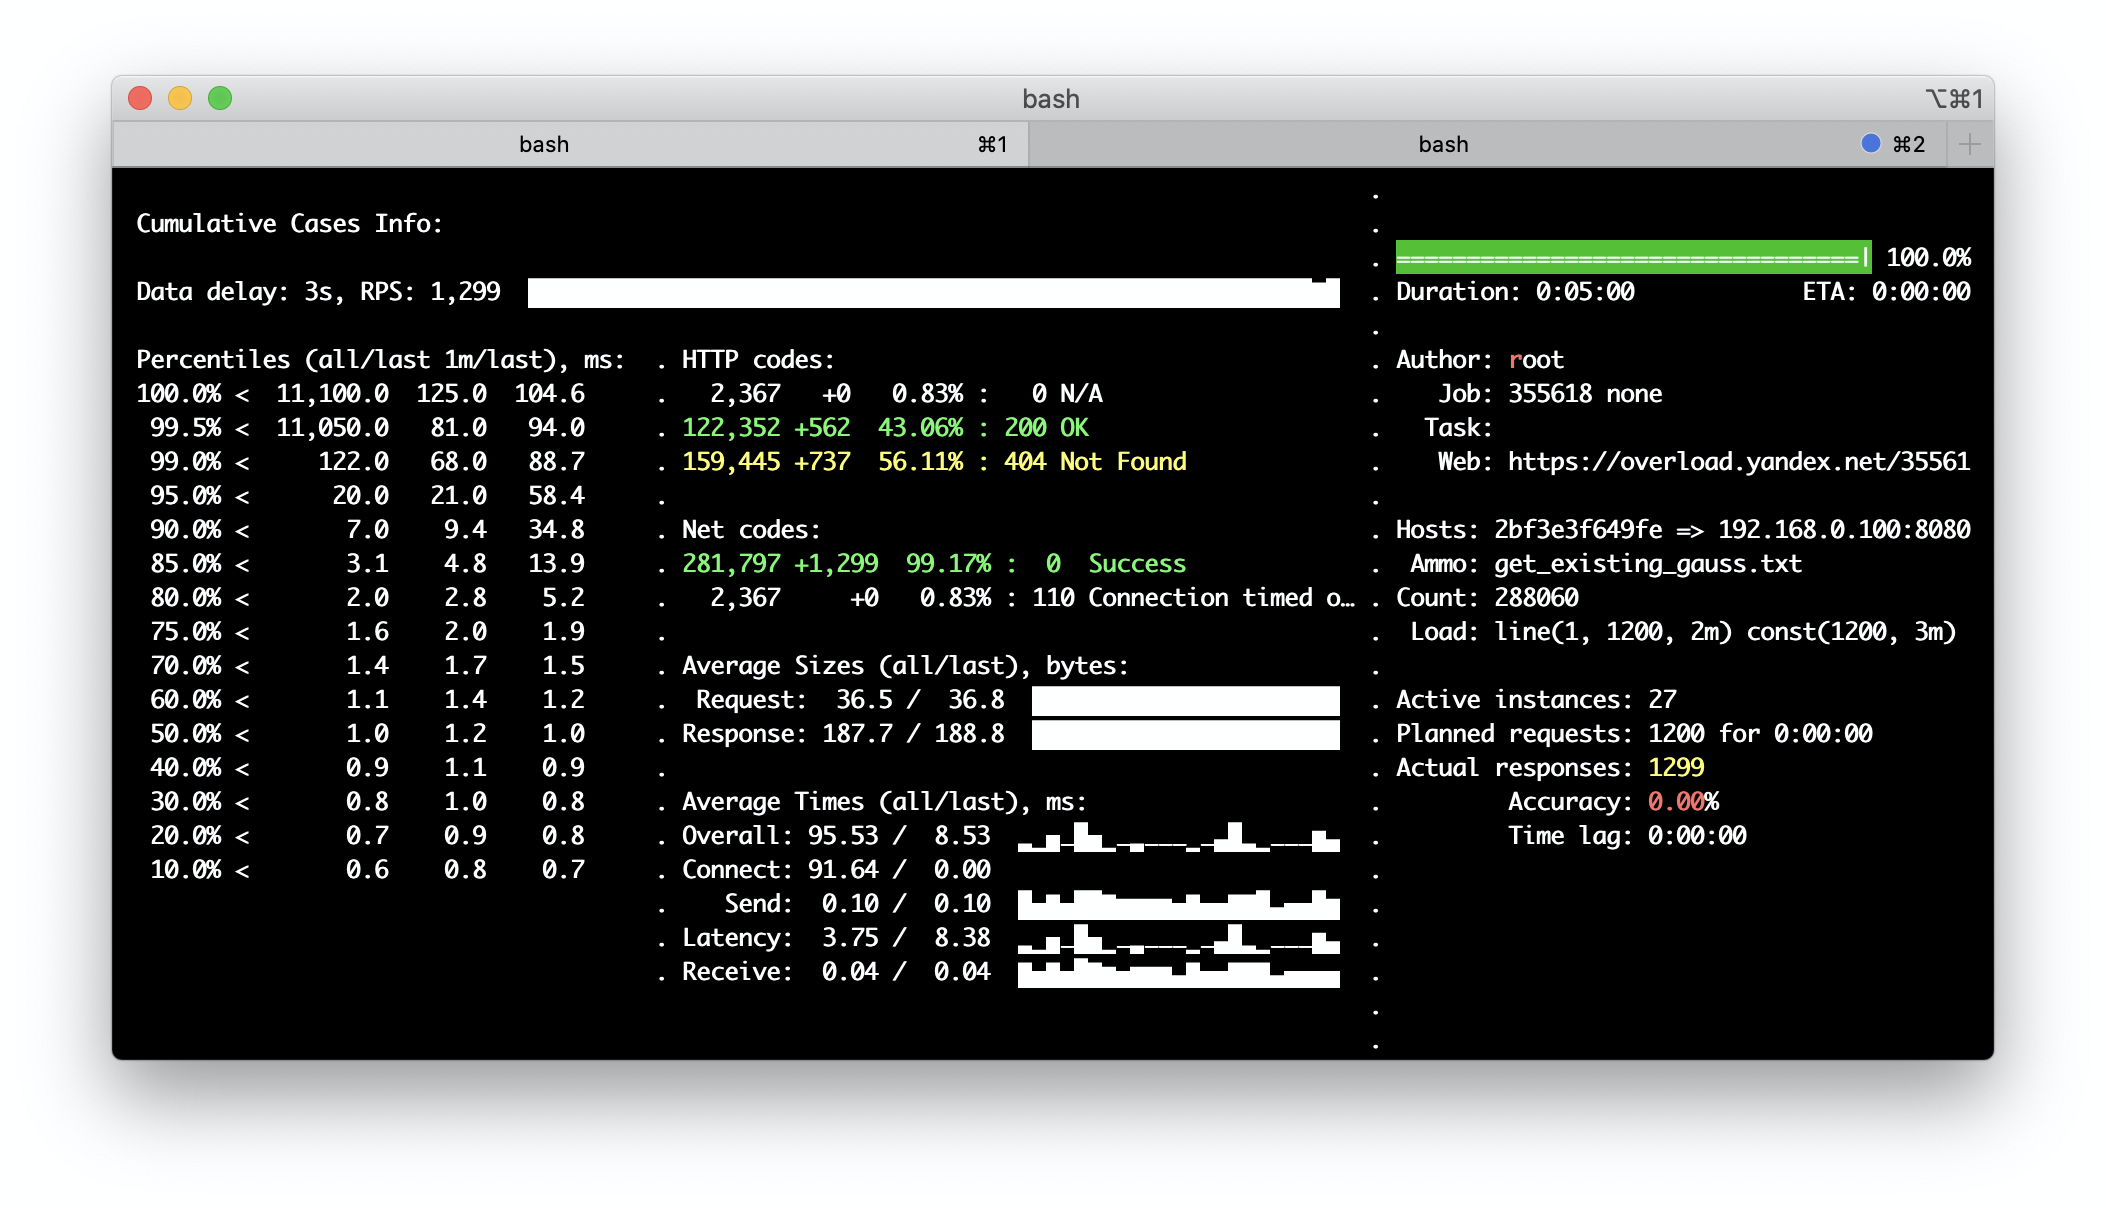
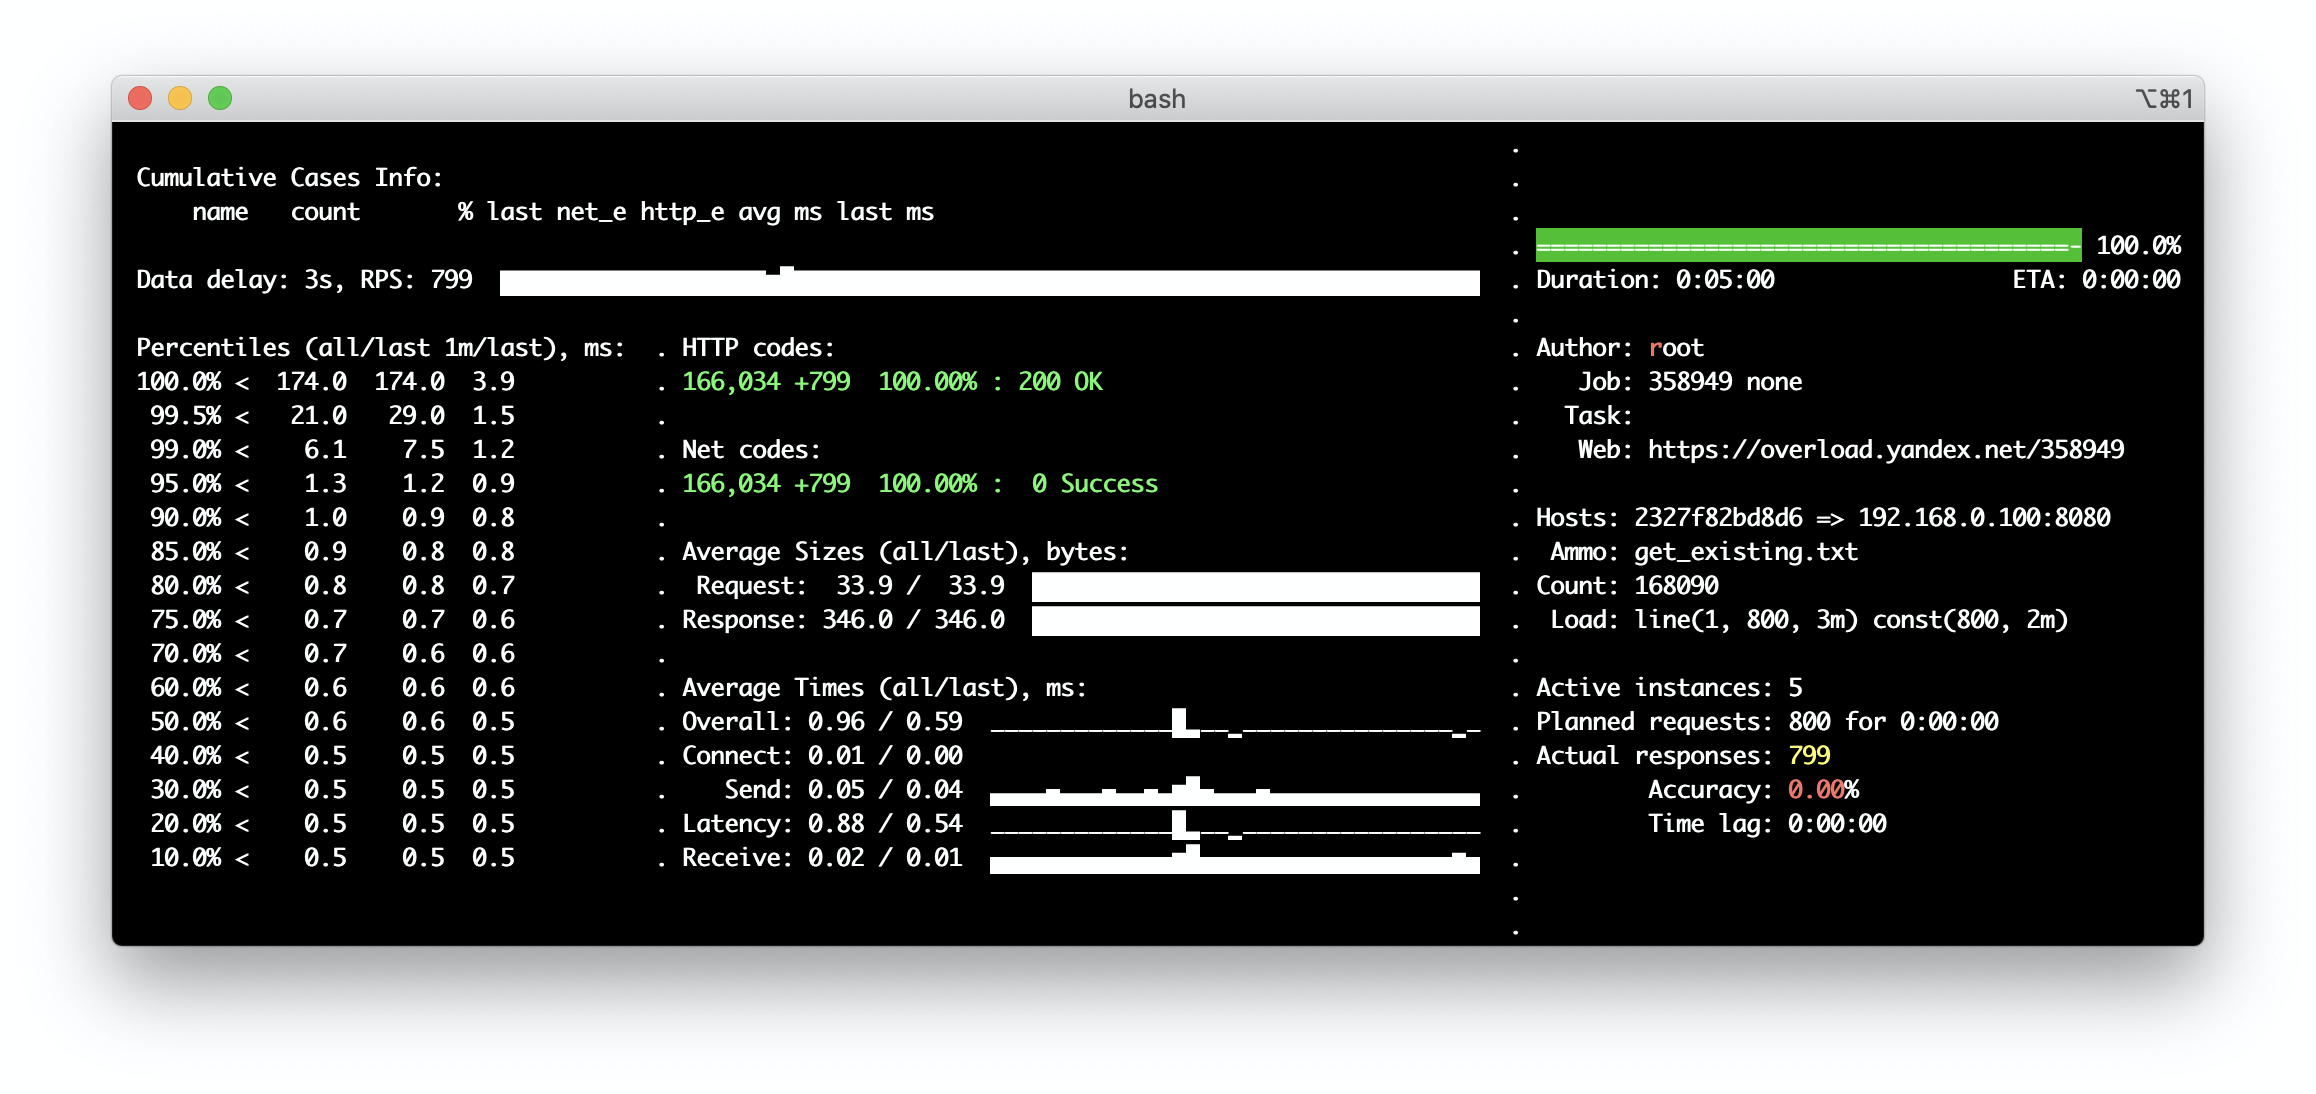
Partial corrections

Changed region(s): [[0.0309, 0.0622, 0.9568, 0.9013]]

diff --git a/src/main/java/ru/mail/polis/AmmoGenerator.java b/src/main/java/ru/mail/polis/AmmoGenerator.java
@@ -19,7 +19,6 @@ public final class AmmoGenerator {
     private static final byte[] GET_BYTES = " get\n".getBytes(US_ASCII);
     private static final String HTTP_VERSION = " HTTP/1.1";
     private static final String CONTENT_LENGTH_HEADER = "Content-Length: ";
-    private static final int OFFSET = 100;
     private static Random random = new Random();
 
     private AmmoGenerator() {
@@ -103,24 +102,24 @@ public final class AmmoGenerator {
     ) throws IOException {
         int i = 0;
         while (i < numOfRequests) {
-            if (i % 10 != 0 || i == 0) {
-                makePutRequest(outputFile, String.valueOf(i), generateRandomValue());
-            } else {
+            if (i % 10 == 0 && i != 0) {
                 final long keyToRewrite = random.nextInt(i);
                 makePutRequest(outputFile, String.valueOf(keyToRewrite), generateRandomValue());
+            } else {
+                makePutRequest(outputFile, String.valueOf(i), generateRandomValue());
             }
             i++;
         }
     }
 
     /**
-     * Generates GET requests to existing records using Gauss distribution.
+     * Generates GET requests to existing records using equal distribution.
      *
      * @param numOfRequests - how many requests to generate
      * @param outputFile    - where to write generated requests
      * @throws IOException - something went wrong
      */
-    private static void generateGetExistingGauss(
+    private static void generateGetExisting(
             final int numOfRequests,
             final FileOutputStream outputFile
     ) throws IOException {
@@ -142,24 +141,14 @@ public final class AmmoGenerator {
     private static void generateGetExistingWithOffset(
             final int numOfRequests, final FileOutputStream outputFile
     ) throws IOException {
-        long currentKey;
-        int position;
-        long i = 0;
+        int i = 0;
         while (i < numOfRequests) {
-            position = ThreadLocalRandom.current().nextInt(0, 10);
-
-            switch (position) {
-                case 0:
-                    currentKey = ThreadLocalRandom.current().nextLong(0, OFFSET / 2);
-                    break;
-                case 1:
-                    currentKey = ThreadLocalRandom.current().nextLong(
-                            OFFSET / 2, OFFSET / 2 + OFFSET / 4
-                    );
-                    break;
-                default:
-                    currentKey = ThreadLocalRandom.current().nextLong(OFFSET / 2 + OFFSET / 4, OFFSET);
-                    break;
+            final double randomGaussKey = random.nextGaussian() * numOfRequests * 0.1 + numOfRequests * 0.9;
+            int currentKey = (int) Math.round(randomGaussKey);
+            if (currentKey >= numOfRequests) {
+                currentKey = numOfRequests - 1;
+            } else if (currentKey < 0) {
+                currentKey = 0;
             }
             makeGetRequest(outputFile, String.valueOf(currentKey));
             i++;
@@ -218,8 +207,8 @@ public final class AmmoGenerator {
                 case "PUT_PARTIAL_REWRITE":
                     generatePutPartialRewrite(numOfRequests, outputFile);
                     break;
-                case "GET_EXISTING_GAUSS":
-                    generateGetExistingGauss(numOfRequests, outputFile);
+                case "GET_EXISTING":
+                    generateGetExisting(numOfRequests, outputFile);
                     break;
                 case "GET_EXISTING_WITH_OFFSET":
                     generateGetExistingWithOffset(numOfRequests, outputFile);
